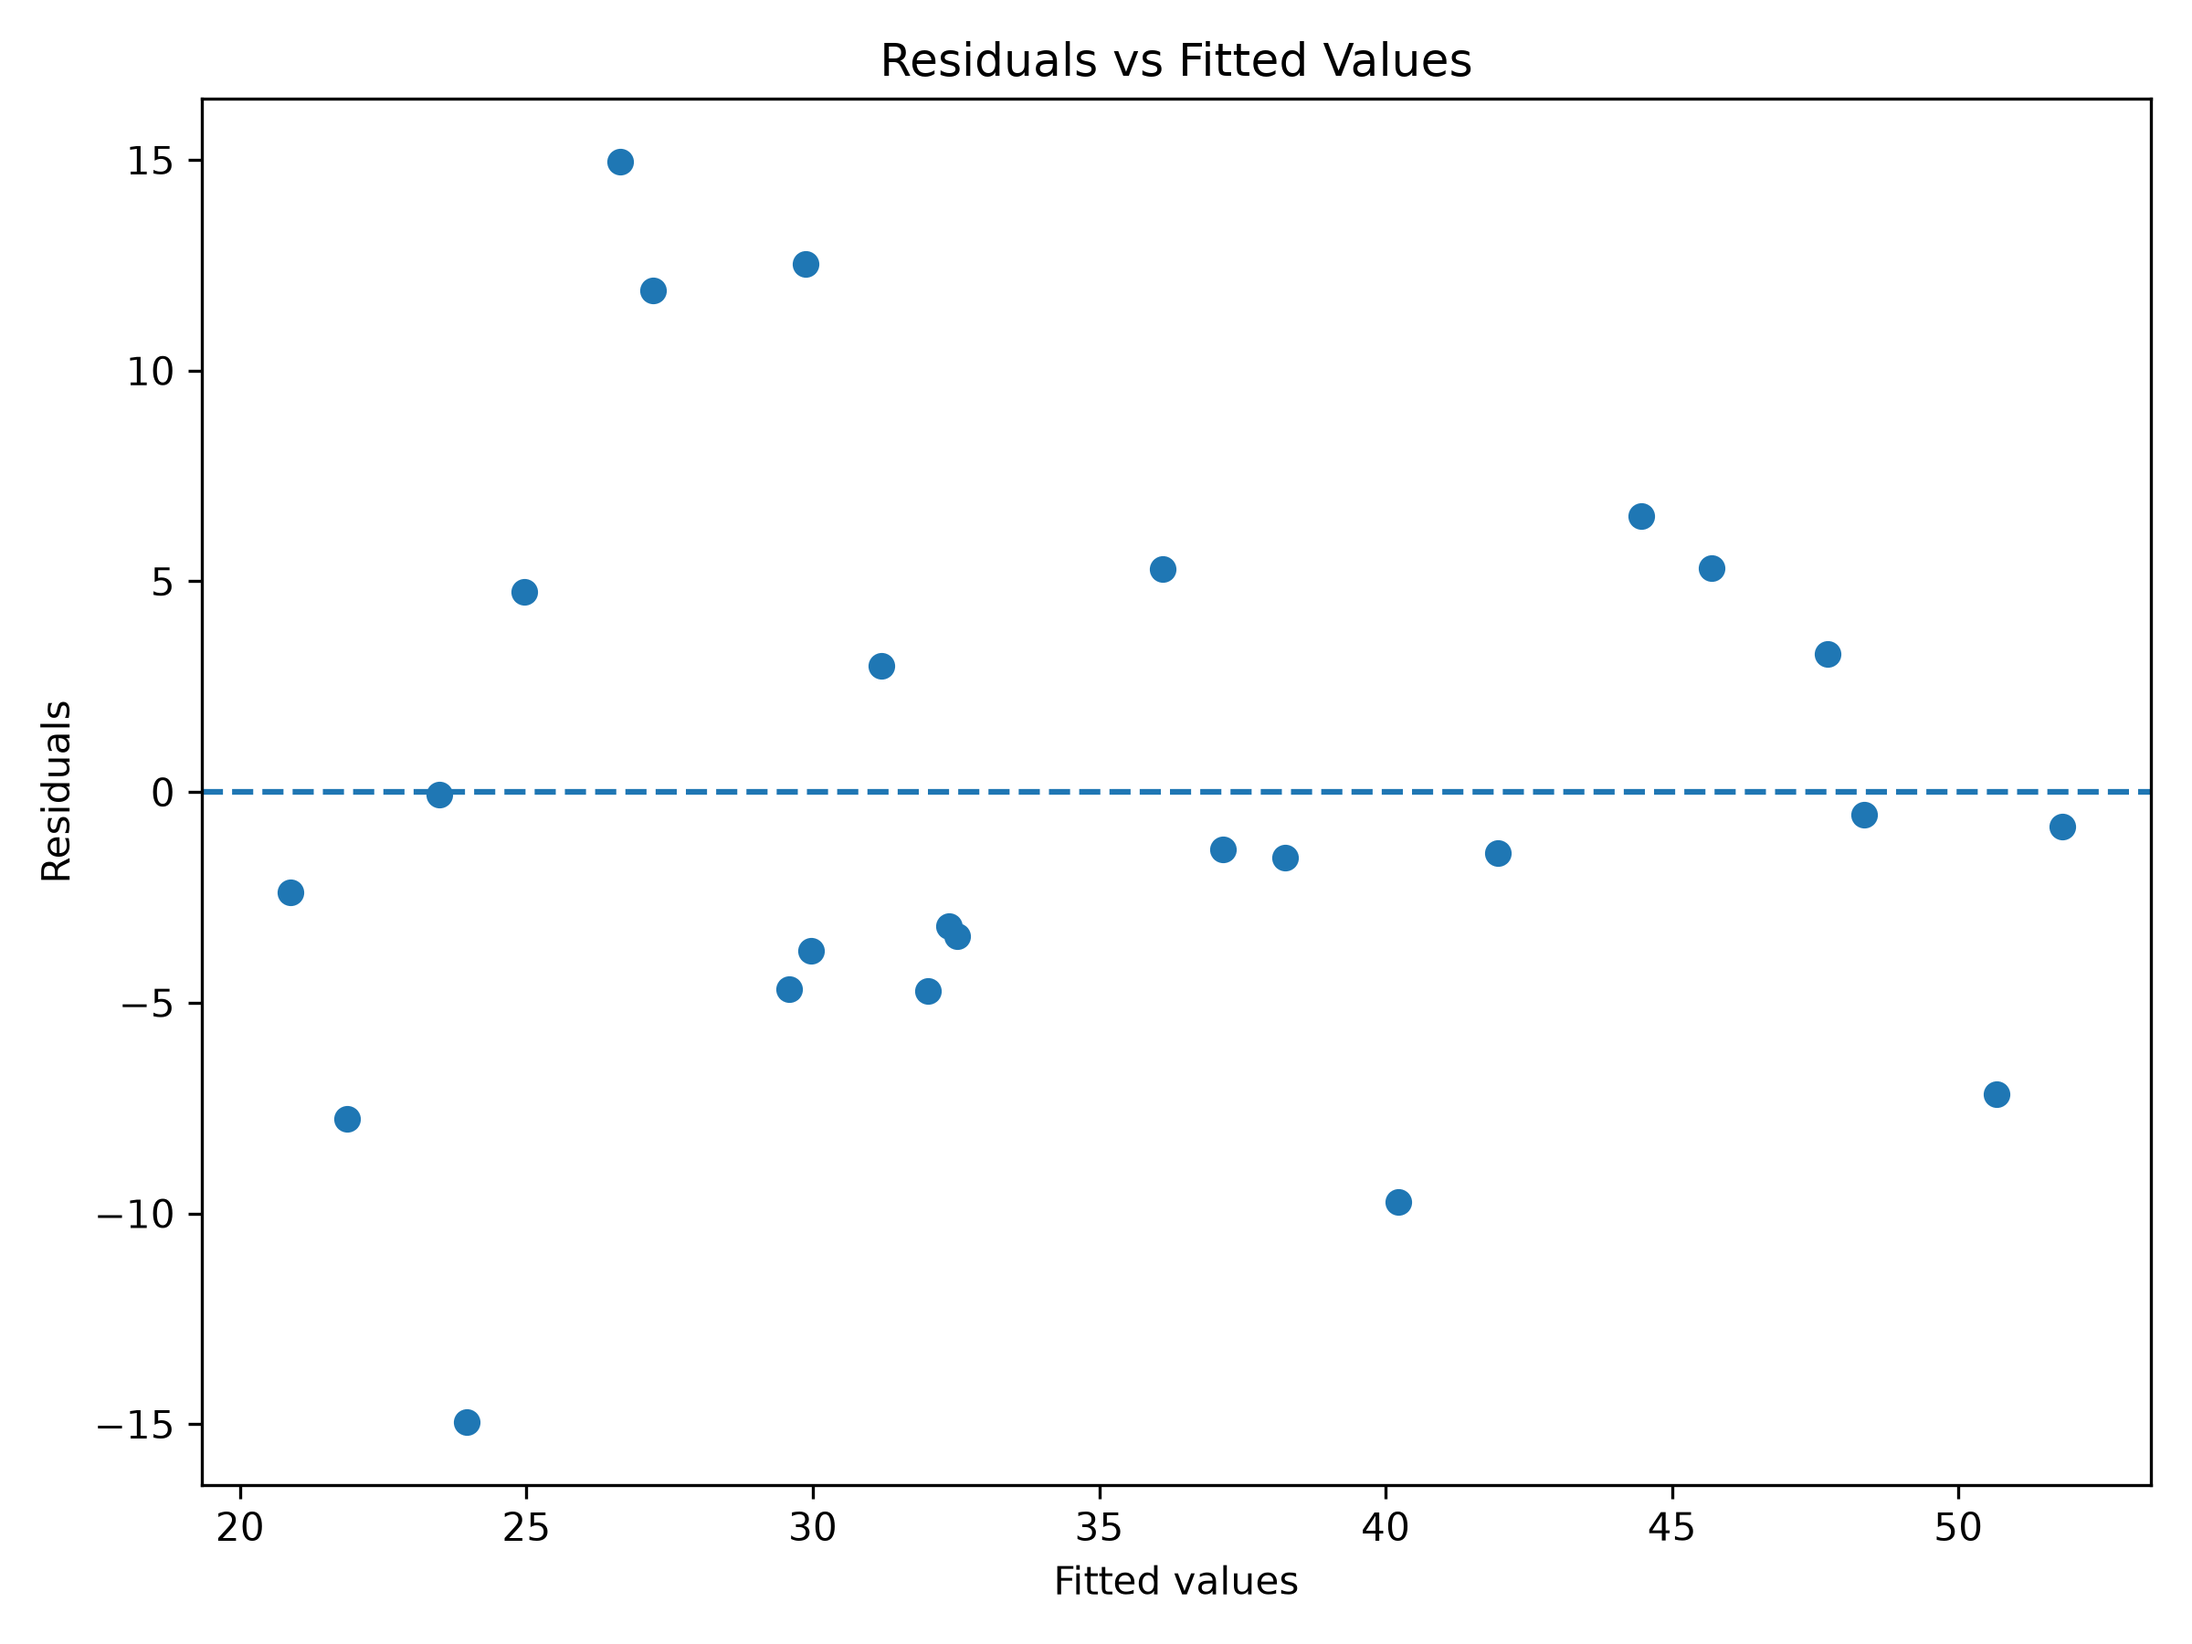
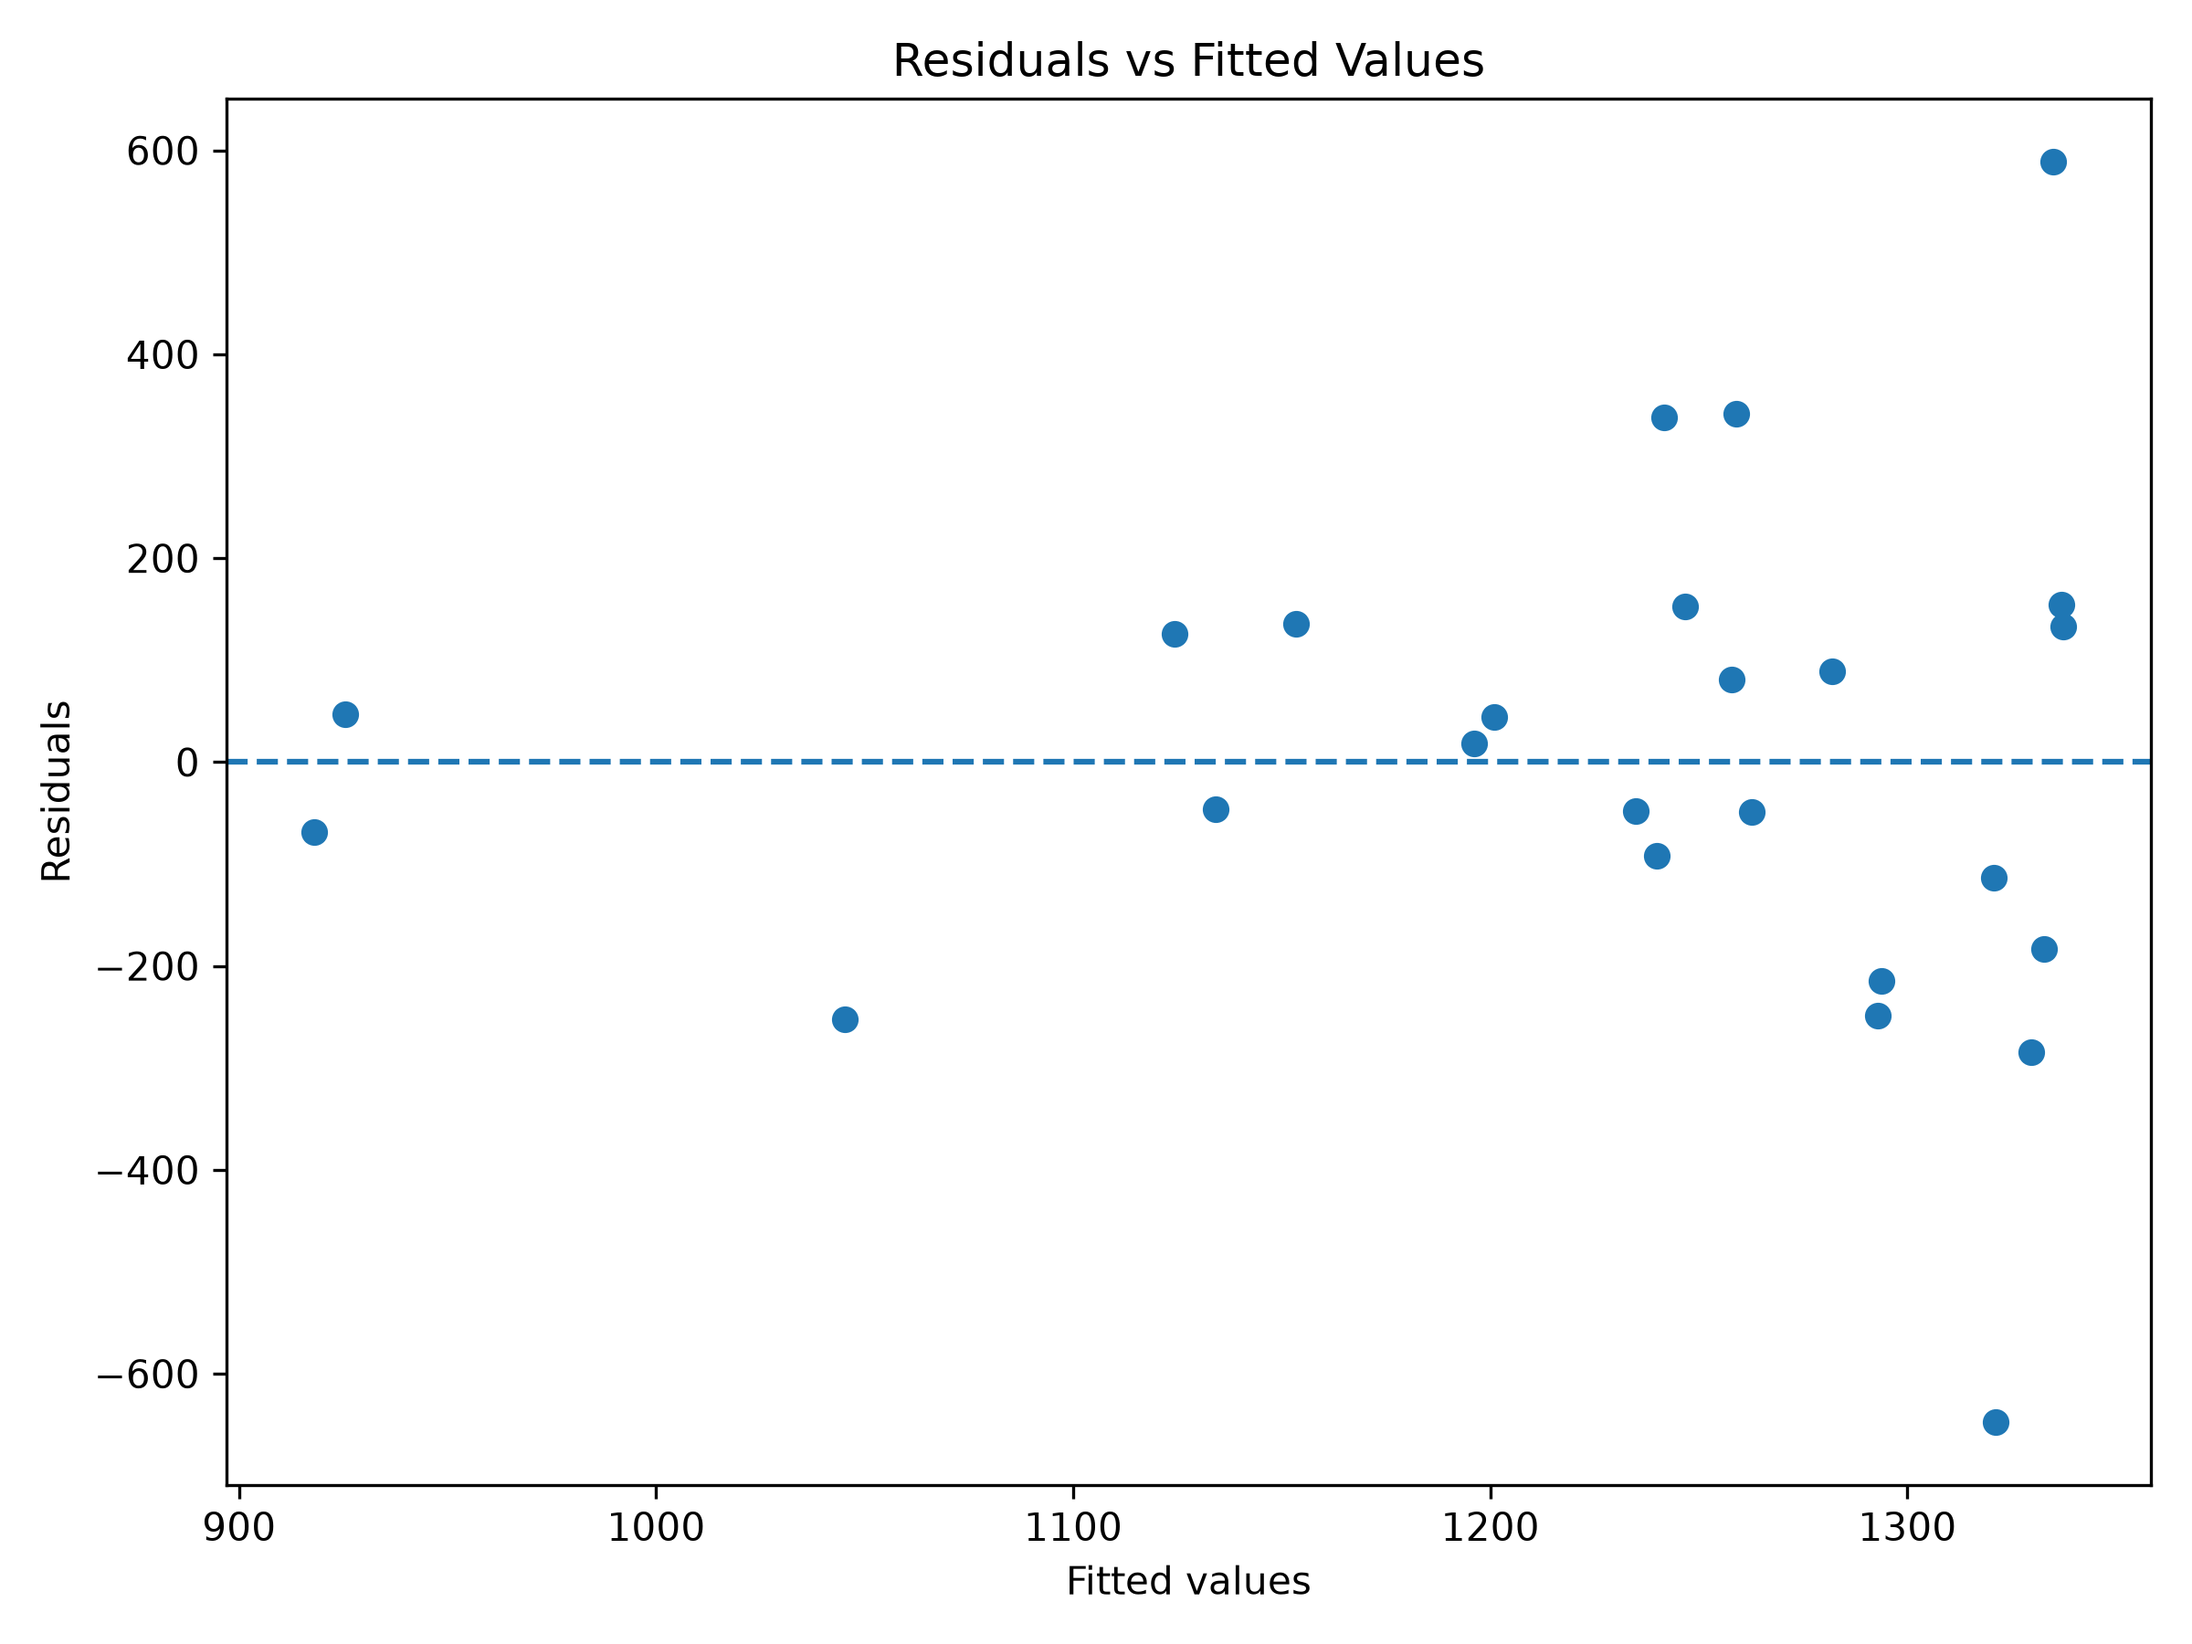
Align regression diagnostics with primary model

diff --git a/src/analysis/regression_diagnostics.py b/src/analysis/regression_diagnostics.py
@@ -6,7 +6,9 @@ import statsmodels.api as sm
 from scipy import stats
 
 
-INPUT_PATH = Path("data/processed/college_town_master.gpkg")
+INPUT_PATH = Path(
+    "data/processed/college_town_analysis.gpkg"
+)
 OUTPUT_DIR = Path("docs/figures")
 
 
@@ -16,28 +18,34 @@ def load_data():
 
 def prepare_model_data(dataset):
     columns = [
-        "median_rent_burden_pct",
-        "food_access_beyond_half_mile_network_share",
-        "median_network_transit_distance_m",
+        "median_gross_rent",
+        "median_transit_distance_m",
         "median_household_income",
         "vehicle_access_pct",
     ]
 
     data = dataset[columns].dropna().copy()
 
+    data["transit_distance_km"] = (
+        data["median_transit_distance_m"] / 1000
+    )
+
+    data["income_10k"] = (
+        data["median_household_income"] / 10000
+    )
+
     return data
 
 
 def fit_full_model(data):
     predictors = [
-        "food_access_beyond_half_mile_network_share",
-        "median_network_transit_distance_m",
-        "median_household_income",
+        "transit_distance_km",
+        "income_10k",
         "vehicle_access_pct",
     ]
 
     x = sm.add_constant(data[predictors])
-    y = data["median_rent_burden_pct"]
+    y = data["median_gross_rent"]
 
     model = sm.OLS(y, x).fit(cov_type="HC3")
 
